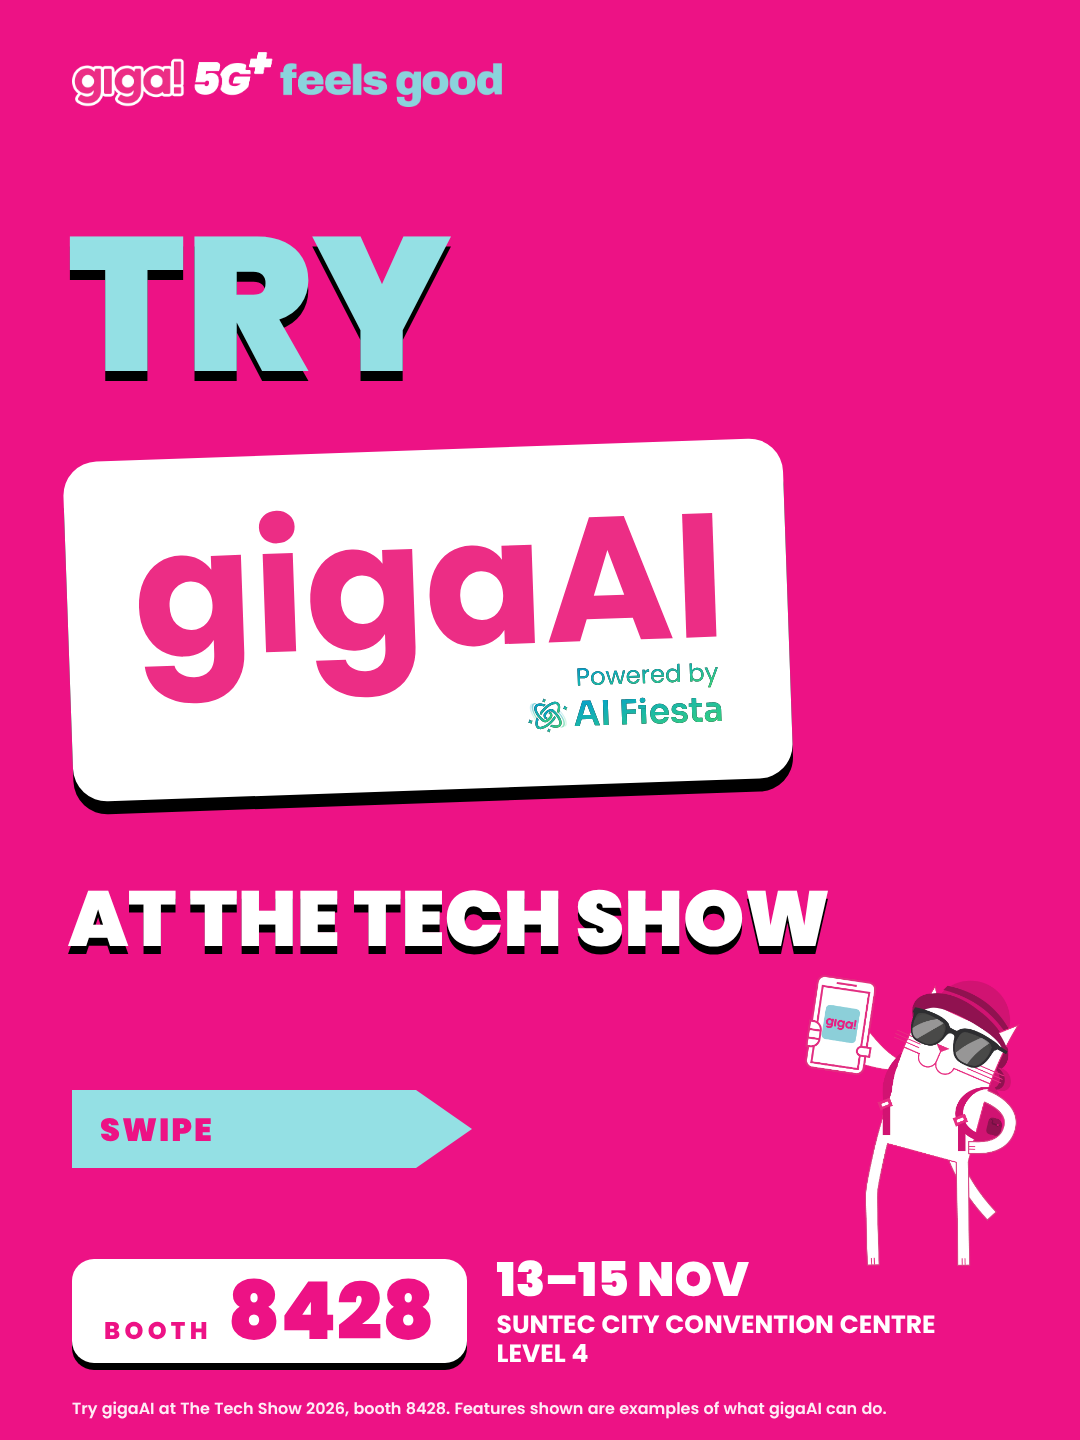
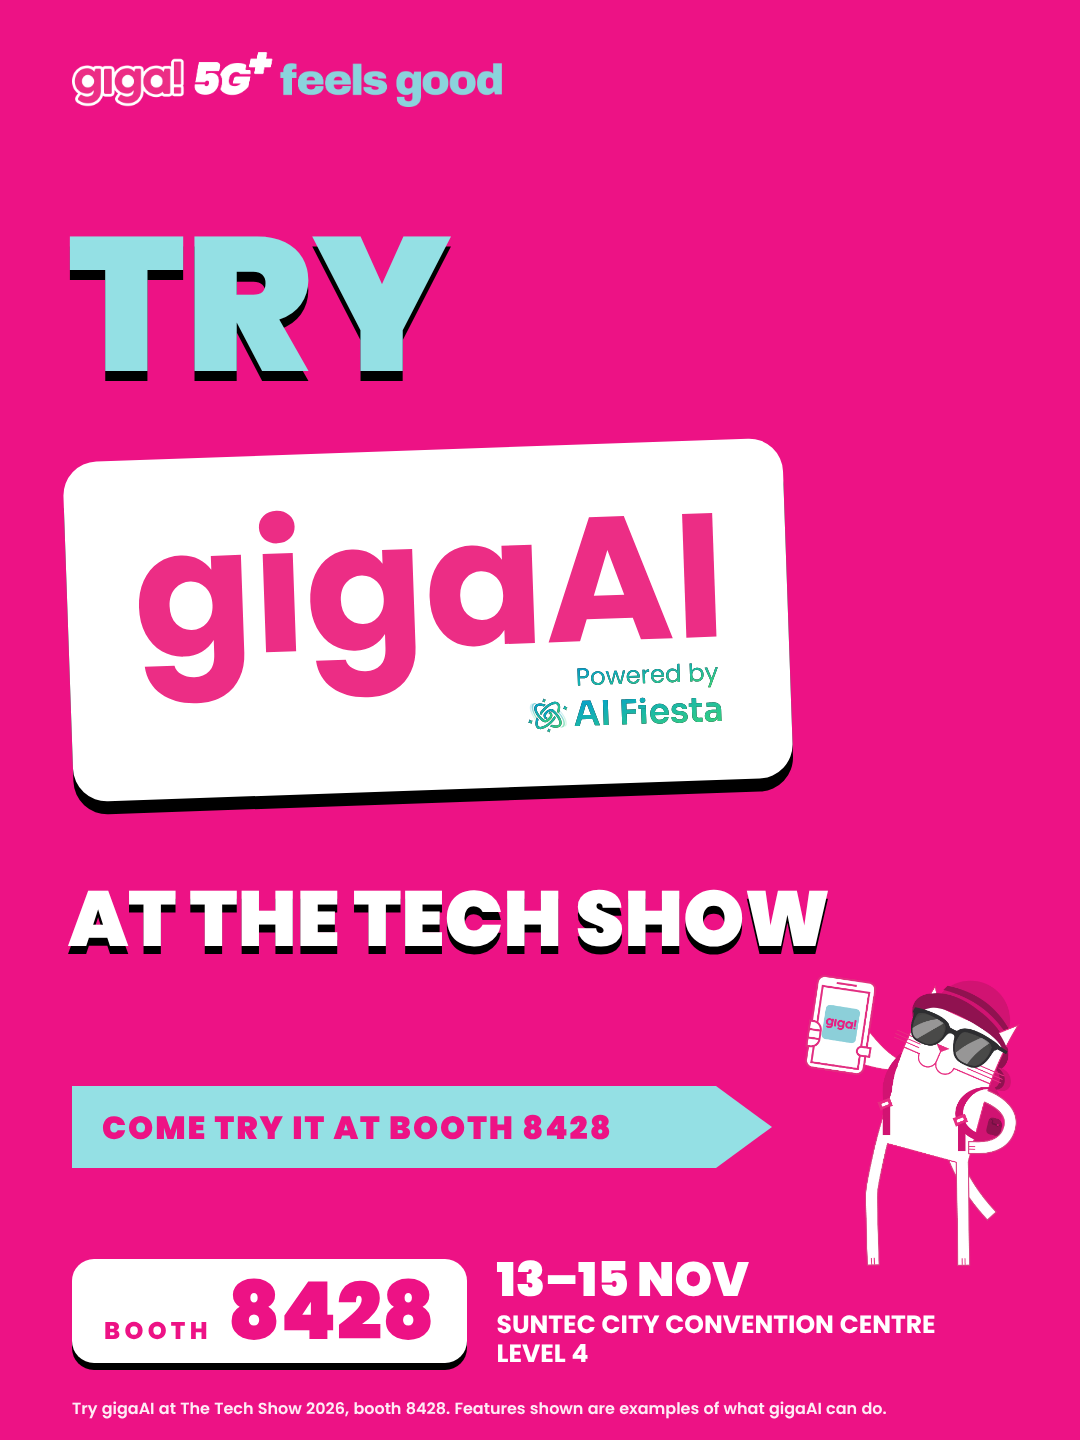
gigaAI cover: clear CTA (come try it at booth 8428) instead of swipe
Claude-Session: https://claude.ai/code/session_01QpHBCYvf2HgUsT79rZy6ps

Changed region(s): [[0.0917, 0.75, 0.7028, 0.8125]]

diff --git a/giga-tech-show/post-8-giga-ai-01-cover.html b/giga-tech-show/post-8-giga-ai-01-cover.html
@@ -23,7 +23,7 @@
 .cv-logo{position:absolute;left:68px;top:450px;z-index:4;width:720px;background:var(--white);border-radius:34px;padding:36px 52px 30px;box-shadow:0 13px 0 var(--black);transform:rotate(-2deg)}
 .cv-logo img{display:block;width:100%;height:auto}
 .cv-at{position:absolute;left:68px;top:880px;z-index:4;font-weight:900;font-size:78px;line-height:1;color:var(--white);text-shadow:0 8px 0 var(--black);white-space:nowrap}
-.swipe{position:absolute;left:72px;top:1090px;z-index:5;width:400px;background:var(--teal);color:var(--pink);font-weight:900;font-size:32px;letter-spacing:.06em;padding:16px 80px 14px 28px;clip-path:polygon(0 0,86% 0,100% 50%,86% 100%,0 100%)}
+.swipe{position:absolute;left:72px;top:1086px;z-index:5;width:700px;white-space:nowrap;background:var(--teal);color:var(--pink);font-weight:900;font-size:32px;letter-spacing:.06em;padding:18px 90px 16px 30px;clip-path:polygon(0 0,92% 0,100% 50%,92% 100%,0 100%)}
 </style></head>
 <body><div class="post" id="post" style="background:var(--pink)">
 
@@ -32,7 +32,7 @@
 <div class="cv-logo"><img src="assets/giga-ai-logo-trim.svg" alt="gigaAI"></div>
 <div class="cv-at">AT THE TECH SHOW</div>
 <img class="gino" src="assets/gino-phone.png" style="left:805px;top:975px;width:215px;z-index:5" alt="Gino with phone">
-<div class="swipe">SWIPE</div>
+<div class="swipe">COME TRY IT AT BOOTH 8428</div>
 <div class="strip" style="top:1254px"><div class="booth"><small>BOOTH</small><strong>8428</strong></div>
 <div class="when" style="color:var(--white)">13–15 Nov<span>Suntec City Convention Centre<br>Level 4</span></div></div>
 <div class="fine" style="color:rgba(255,255,255,.92)">Try gigaAI at The Tech Show 2026, booth 8428. Features shown are examples of what gigaAI can do.</div>

diff --git a/.claude/skills/giga-social-posts/tools/build_carousel.py b/.claude/skills/giga-social-posts/tools/build_carousel.py
@@ -69,7 +69,7 @@ cover_css=CSS+"""
 .cv-logo{position:absolute;left:68px;top:450px;z-index:4;width:720px;background:var(--white);border-radius:34px;padding:36px 52px 30px;box-shadow:0 13px 0 var(--black);transform:rotate(-2deg)}
 .cv-logo img{display:block;width:100%;height:auto}
 .cv-at{position:absolute;left:68px;top:880px;z-index:4;font-weight:900;font-size:78px;line-height:1;color:var(--white);text-shadow:0 8px 0 var(--black);white-space:nowrap}
-.swipe{position:absolute;left:72px;top:1090px;z-index:5;width:400px;background:var(--teal);color:var(--pink);font-weight:900;font-size:32px;letter-spacing:.06em;padding:16px 80px 14px 28px;clip-path:polygon(0 0,86% 0,100% 50%,86% 100%,0 100%)}
+.swipe{position:absolute;left:72px;top:1086px;z-index:5;width:700px;white-space:nowrap;background:var(--teal);color:var(--pink);font-weight:900;font-size:32px;letter-spacing:.06em;padding:18px 90px 16px 30px;clip-path:polygon(0 0,92% 0,100% 50%,92% 100%,0 100%)}
 """
 cover_body=f'''
 <img class="brand" src="assets/logo-lockup-onpink.png" alt="giga! 5G+ feels good">
@@ -77,7 +77,7 @@ cover_body=f'''
 <div class="cv-logo"><img src="assets/giga-ai-logo-trim.svg" alt="gigaAI"></div>
 <div class="cv-at">AT THE TECH SHOW</div>
 <img class="gino" src="assets/gino-phone.png" style="left:805px;top:975px;width:215px;z-index:5" alt="Gino with phone">
-<div class="swipe">SWIPE</div>
+<div class="swipe">COME TRY IT AT BOOTH 8428</div>
 {strip('pink')}
 {fine(FINE)}'''
 slides.insert(0,('post-8-giga-ai-01-cover',HEAD.format(t='gigaAI: cover',css=cover_css,bg='background:var(--pink)',body=cover_body)))

diff --git a/giga-tech-show/tools/build_carousel.py b/giga-tech-show/tools/build_carousel.py
@@ -69,7 +69,7 @@ cover_css=CSS+"""
 .cv-logo{position:absolute;left:68px;top:450px;z-index:4;width:720px;background:var(--white);border-radius:34px;padding:36px 52px 30px;box-shadow:0 13px 0 var(--black);transform:rotate(-2deg)}
 .cv-logo img{display:block;width:100%;height:auto}
 .cv-at{position:absolute;left:68px;top:880px;z-index:4;font-weight:900;font-size:78px;line-height:1;color:var(--white);text-shadow:0 8px 0 var(--black);white-space:nowrap}
-.swipe{position:absolute;left:72px;top:1090px;z-index:5;width:400px;background:var(--teal);color:var(--pink);font-weight:900;font-size:32px;letter-spacing:.06em;padding:16px 80px 14px 28px;clip-path:polygon(0 0,86% 0,100% 50%,86% 100%,0 100%)}
+.swipe{position:absolute;left:72px;top:1086px;z-index:5;width:700px;white-space:nowrap;background:var(--teal);color:var(--pink);font-weight:900;font-size:32px;letter-spacing:.06em;padding:18px 90px 16px 30px;clip-path:polygon(0 0,92% 0,100% 50%,92% 100%,0 100%)}
 """
 cover_body=f'''
 <img class="brand" src="assets/logo-lockup-onpink.png" alt="giga! 5G+ feels good">
@@ -77,7 +77,7 @@ cover_body=f'''
 <div class="cv-logo"><img src="assets/giga-ai-logo-trim.svg" alt="gigaAI"></div>
 <div class="cv-at">AT THE TECH SHOW</div>
 <img class="gino" src="assets/gino-phone.png" style="left:805px;top:975px;width:215px;z-index:5" alt="Gino with phone">
-<div class="swipe">SWIPE</div>
+<div class="swipe">COME TRY IT AT BOOTH 8428</div>
 {strip('pink')}
 {fine(FINE)}'''
 slides.insert(0,('post-8-giga-ai-01-cover',HEAD.format(t='gigaAI: cover',css=cover_css,bg='background:var(--pink)',body=cover_body)))
